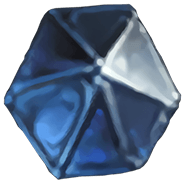
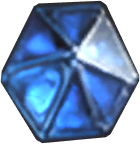
Added mana gem drawing from assets. Remove all external resources.

diff --git a/src/generator.rs b/src/generator.rs
@@ -3,10 +3,10 @@ use cards::*;
 use error::{Error, Result};
 use unitypack::engine::texture::IntoTexture2D;
 use sfml::system::Vector2f;
-use sfml::graphics::{Color, Font, Image, IntRect, RenderTarget, RenderTexture, Sprite, Text,
-                     TextStyle, Texture, Transformable};
+use sfml::graphics::{Color, Font, Image, RenderTarget, RenderTexture, Sprite, Text, TextStyle,
+                     Transformable};
 use builder;
-use utils::ImageUtils;
+use utils::{ImageUtils, SpriteTransforms};
 
 const CARD_ASPECT_RATIO: f32 = 764f32 / 1100f32;
 
@@ -87,13 +87,14 @@ impl Generator {
         self.draw_name_banner(&card_type, &mut canvas, 1.0f32)?;
 
         // draw mana gem
-        let mana_gem =
+        self.draw_mana_gem(&mut canvas, 1.0f32)?;
+        /*let mana_gem =
             Image::from_memory(self.assets.get_card_asset("MANA_GEM")?).ok_or(Error::SFMLError)?;
         let mut mana_gem_texture = Texture::from_image(&mana_gem).ok_or(Error::SFMLError)?;
         mana_gem_texture.set_smooth(true);
         let mut mana_gem_sprite = Sprite::with_texture(&mana_gem_texture);
         mana_gem_sprite.move_(Vector2f::new(24f32, 75f32));
-        canvas.draw(&mana_gem_sprite);
+        canvas.draw(&mana_gem_sprite);*/
 
         let belwe_raw = self.assets.get_font(&Fonts::Belwe)?;
         let belwe = Font::from_memory(&belwe_raw.data).ok_or(Error::SFMLError)?;
@@ -288,6 +289,22 @@ impl Generator {
         Ok(())
     }
 
+    fn draw_mana_gem(&self, canvas: &mut RenderTexture, scaling_factor: f32) -> Result<()> {
+        let mana_gem = builder::build_mana_gem(
+            &self.assets.textures,
+            &self.assets.meshes,
+            (173f32 * scaling_factor).ceil() as usize,
+        )?;
+        let mut mana_gem_sprite = Sprite::with_texture(&mana_gem.texture());
+        mana_gem_sprite.flip_horizontally();
+        mana_gem_sprite.move_(Vector2f {
+            x: 24f32 * scaling_factor,
+            y: 75f32 * scaling_factor,
+        });
+        canvas.draw(&mana_gem_sprite);
+        Ok(())
+    }
+
     fn draw_rarity_gem(
         &self,
         rarity: &CardRarity,
@@ -295,8 +312,11 @@ impl Generator {
         scaling_factor: f32,
     ) -> Result<()> {
         // draw socket
-        let rarity_gem_socket =
-            builder::build_rarity_gem_socket(&self.assets.textures, &self.assets.meshes, 137)?;
+        let rarity_gem_socket = builder::build_rarity_gem_socket(
+            &self.assets.textures,
+            &self.assets.meshes,
+            (137f32 * scaling_factor).ceil() as usize,
+        )?;
         let mut rarity_gem_socket_sprite = Sprite::with_texture(&rarity_gem_socket.texture());
         rarity_gem_socket_sprite.flip_vertically();
         rarity_gem_socket_sprite.set_position(Vector2f {
@@ -306,8 +326,12 @@ impl Generator {
         canvas.draw(&rarity_gem_socket_sprite);
 
         // draw gem
-        let rarity_gem =
-            builder::build_rarity_gem(&self.assets.textures, &self.assets.meshes, rarity, 61)?;
+        let rarity_gem = builder::build_rarity_gem(
+            &self.assets.textures,
+            &self.assets.meshes,
+            rarity,
+            (61f32 * scaling_factor).ceil() as usize,
+        )?;
         let mut rarity_gem_sprite = Sprite::with_texture(&rarity_gem.texture());
         rarity_gem_sprite.flip_vertically();
         rarity_gem_sprite.set_position(Vector2f {
@@ -327,7 +351,11 @@ impl Generator {
     ) -> Result<()> {
         let name_texture = builder::build_name_texture(card_name, text)?;
 
-        let card_name = builder::build_card_name(name_texture.texture(), &self.assets.meshes, 573)?;
+        let card_name = builder::build_card_name(
+            name_texture.texture(),
+            &self.assets.meshes,
+            (573f32 * scaling_factor).ceil() as usize,
+        )?;
         let mut card_name_sprite = Sprite::with_texture(&card_name.texture());
         card_name_sprite.flip_vertically();
         card_name_sprite.set_position(Vector2f {
@@ -336,31 +364,5 @@ impl Generator {
         });
         canvas.draw(&card_name_sprite);
         Ok(())
-    }
-}
-
-trait SpriteTransforms {
-    fn flip_horizontally(&mut self);
-    fn flip_vertically(&mut self);
-}
-
-impl<'s> SpriteTransforms for Sprite<'s> {
-    fn flip_horizontally(&mut self) {
-        let texture_rect = self.texture_rect();
-        self.set_texture_rect(&IntRect::new(
-            0,
-            texture_rect.height,
-            texture_rect.width,
-            -1 * texture_rect.height,
-        ));
-    }
-    fn flip_vertically(&mut self) {
-        let texture_rect = self.texture_rect();
-        self.set_texture_rect(&IntRect::new(
-            texture_rect.width,
-            0,
-            -1 * texture_rect.width,
-            texture_rect.height,
-        ));
     }
 }

diff --git a/src/assets.rs b/src/assets.rs
@@ -14,7 +14,6 @@ use cards::*;
 use std::collections::HashMap;
 use glob::glob;
 use rayon::prelude::*;
-use resources::*;
 use builder;
 use std::path::Path;
 
@@ -36,7 +35,6 @@ pub struct Assets {
     portraits: (HashMap<String, String>, HashMap<String, ObjectLocator>), // cards, textures
     pub textures: HashMap<String, String>,
     card_frames: HashMap<String, RenderTexture>,
-    card_assets: HashMap<String, &'static [u8]>,
     fonts: HashMap<Fonts, Font>,
     pub meshes: HashMap<String, Mesh>,
 }
@@ -494,7 +492,6 @@ impl Assets {
         let portraits = Assets::load_portraits(assets_path)?;
         let textures = Assets::load_textures(assets_path)?;
         let card_frames = Assets::load_card_frames(&textures, &meshes)?;
-        let card_assets = Assets::load_card_assets();
         let fonts = Assets::load_fonts(assets_path)?;
 
 
@@ -502,7 +499,6 @@ impl Assets {
             portraits: portraits,
             textures: textures,
             card_frames: card_frames,
-            card_assets: card_assets,
             fonts: fonts,
             meshes: meshes,
         })
@@ -604,12 +600,6 @@ impl Assets {
         Ok(res)
     }
 
-    fn load_card_assets() -> HashMap<String, &'static [u8]> {
-        let mut res = HashMap::new();
-        res.insert(format!("MANA_GEM"), MANA_GEM);
-        res
-    }
-
     fn load_fonts(assets_path: &str) -> Result<HashMap<Fonts, Font>> {
         let shared = UnpackDef::new(
             &[assets_path, "/shared*.unity3d"].join(""),
@@ -656,6 +646,7 @@ impl Assets {
             "InHand_Ability_Portrait_mesh".to_string(),
             "RarityGem_mesh".to_string(),
             "AbilityCardCurvedText".to_string(),
+            "ManaGem".to_string(),
         ];
 
         let mut res = HashMap::new();
@@ -678,15 +669,6 @@ impl Assets {
             Some(k) => k,
             None => {
                 return Err(Error::AssetNotFoundError(format!("Cannot find {}", key)));
-            }
-        })
-    }
-
-    pub fn get_card_asset(&self, asset: &str) -> Result<&[u8]> {
-        Ok(match self.card_assets.get(asset) {
-            Some(k) => k,
-            None => {
-                return Err(Error::AssetNotFoundError(format!("Cannot find {}", asset)));
             }
         })
     }

diff --git a/src/utils.rs b/src/utils.rs
@@ -1,5 +1,6 @@
 use error::{Error, Result};
-use sfml::graphics::{Color, Image, RenderTarget, RenderTexture, Sprite, Texture, Transformable};
+use sfml::graphics::{Color, Image, IntRect, RenderTarget, RenderTexture, Sprite, Texture,
+                     Transformable};
 use sfml::system::Vector2f;
 
 pub trait ImageUtils {
@@ -37,5 +38,31 @@ impl ImageUtils for Image {
         canvas.display();
 
         canvas.texture().copy_to_image().ok_or(Error::SFMLError)
+    }
+}
+
+pub trait SpriteTransforms {
+    fn flip_horizontally(&mut self);
+    fn flip_vertically(&mut self);
+}
+
+impl<'s> SpriteTransforms for Sprite<'s> {
+    fn flip_horizontally(&mut self) {
+        let texture_rect = self.texture_rect();
+        self.set_texture_rect(&IntRect::new(
+            0,
+            texture_rect.height,
+            texture_rect.width,
+            -1 * texture_rect.height,
+        ));
+    }
+    fn flip_vertically(&mut self) {
+        let texture_rect = self.texture_rect();
+        self.set_texture_rect(&IntRect::new(
+            texture_rect.width,
+            0,
+            -1 * texture_rect.width,
+            texture_rect.height,
+        ));
     }
 }

diff --git a/src/builder/common.rs b/src/builder/common.rs
@@ -130,6 +130,42 @@ pub fn build_ability_name_banner(
     Ok(canvas)
 }
 
+pub fn build_mana_gem(mana_gem_image: &Image, mesh: &Mesh, width: usize) -> Result<RenderTexture> {
+    let vertex_array = create_vertex_array_(
+        mesh,
+        0,
+        0,
+        3, // texcoord channel
+        mana_gem_image.size().x,
+        mana_gem_image.size().y,
+        width,
+        true,
+    )?;
+
+    let mut mana_gem_texture = Texture::from_image(&mana_gem_image).ok_or(Error::SFMLError)?;
+    mana_gem_texture.set_smooth(true);
+
+    let bounds = vertex_array.bounds();
+    let mut canvas = RenderTexture::new(
+        (bounds.width.ceil()) as u32,
+        (bounds.height.ceil()) as u32,
+        false,
+    ).ok_or(Error::SFMLError)?;
+    canvas.set_smooth(true);
+    canvas.clear(&TRANSPARENT_COLOR);
+
+    let render_states = RenderStates::new(
+        BlendMode::default(),
+        Transform::default(),
+        Some(&mana_gem_texture),
+        None,
+    );
+    canvas.draw_with_renderstates(&vertex_array, render_states);
+    canvas.display();
+
+    Ok(canvas)
+}
+
 pub fn build_rarity_socket(
     socket_image: &Image,
     mesh: &Mesh,

diff --git a/src/builder/mod.rs b/src/builder/mod.rs
@@ -92,6 +92,27 @@ pub fn build_ability_name_banner(
     common::build_ability_name_banner(&banner_image, mesh, width)
 }
 
+pub fn build_mana_gem(
+    texture_map: &HashMap<String, String>,
+    meshes_map: &HashMap<String, Mesh>,
+    width: usize,
+) -> Result<RenderTexture> {
+    let mana_gem_texture = Assets::catalog_get(texture_map, "Gem_Mana_D")?.to_texture2d()?;
+
+    let mana_gem_mesh = meshes_map
+        .get("ManaGem")
+        .ok_or(Error::AssetNotFoundError(format!("Cannot find ManaGem")))?;
+
+    let mut mana_gem_image = Image::create_from_pixels(
+        mana_gem_texture.width,
+        mana_gem_texture.height,
+        &mana_gem_texture.to_image()?,
+    ).ok_or(Error::SFMLError)?;
+    mana_gem_image.remove_transparency();
+
+    common::build_mana_gem(&mana_gem_image, mana_gem_mesh, width)
+}
+
 pub fn build_rarity_gem_socket(
     texture_map: &HashMap<String, String>,
     meshes_map: &HashMap<String, Mesh>,

diff --git a/src/lib.rs b/src/lib.rs
@@ -17,7 +17,6 @@ pub mod generator;
 mod builder;
 mod assets;
 mod cards;
-mod resources;
 
 #[cfg(test)]
 mod tests {
